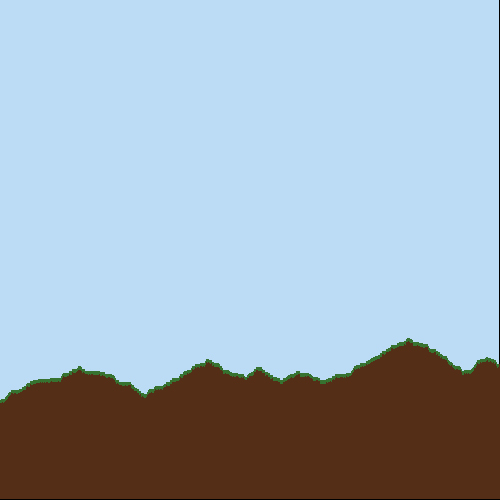
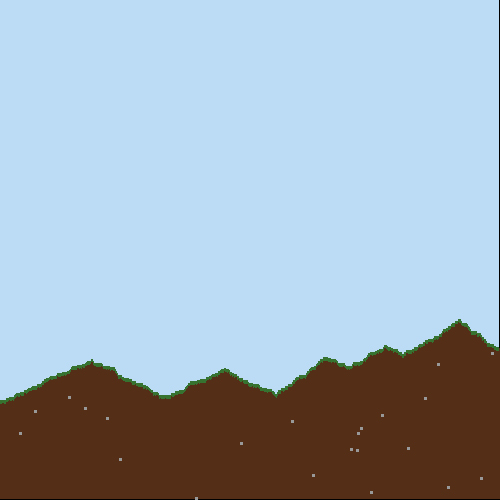
Stony Stony

diff --git a/Flatland.py b/Flatland.py
@@ -51,13 +51,21 @@ def GenerateDirt():
                 Frame.append(Prev)
 
 def GenerateGrass():
-    Grass =[54, 115, 49]
+    Grass = [54, 115, 49]
     for i in range(499):
         World[Frame[i]:Frame[i]+random.choice((4,4,4,3,3)), i] = Grass
+
+def GenerateStone():
+    Stone = [153, 153, 153]
+    for i in range(499):
+        for j in range(499-Frame[i]):
+            if random.randint(1,5000)>4998:
+                World[(499-j):(499-j)+3, i:i+3] = Stone
 
 SkyColor = [188, 220, 245]
 World[0:499, 0:499] = SkyColor
 GenerateDirt()
 GenerateGrass()
+GenerateStone()
 Render = Image.fromarray(World)
 Render.save("Flatland.jpg", format='JPEG', quality='web_maximum', subsampling=0,quantization=0)
